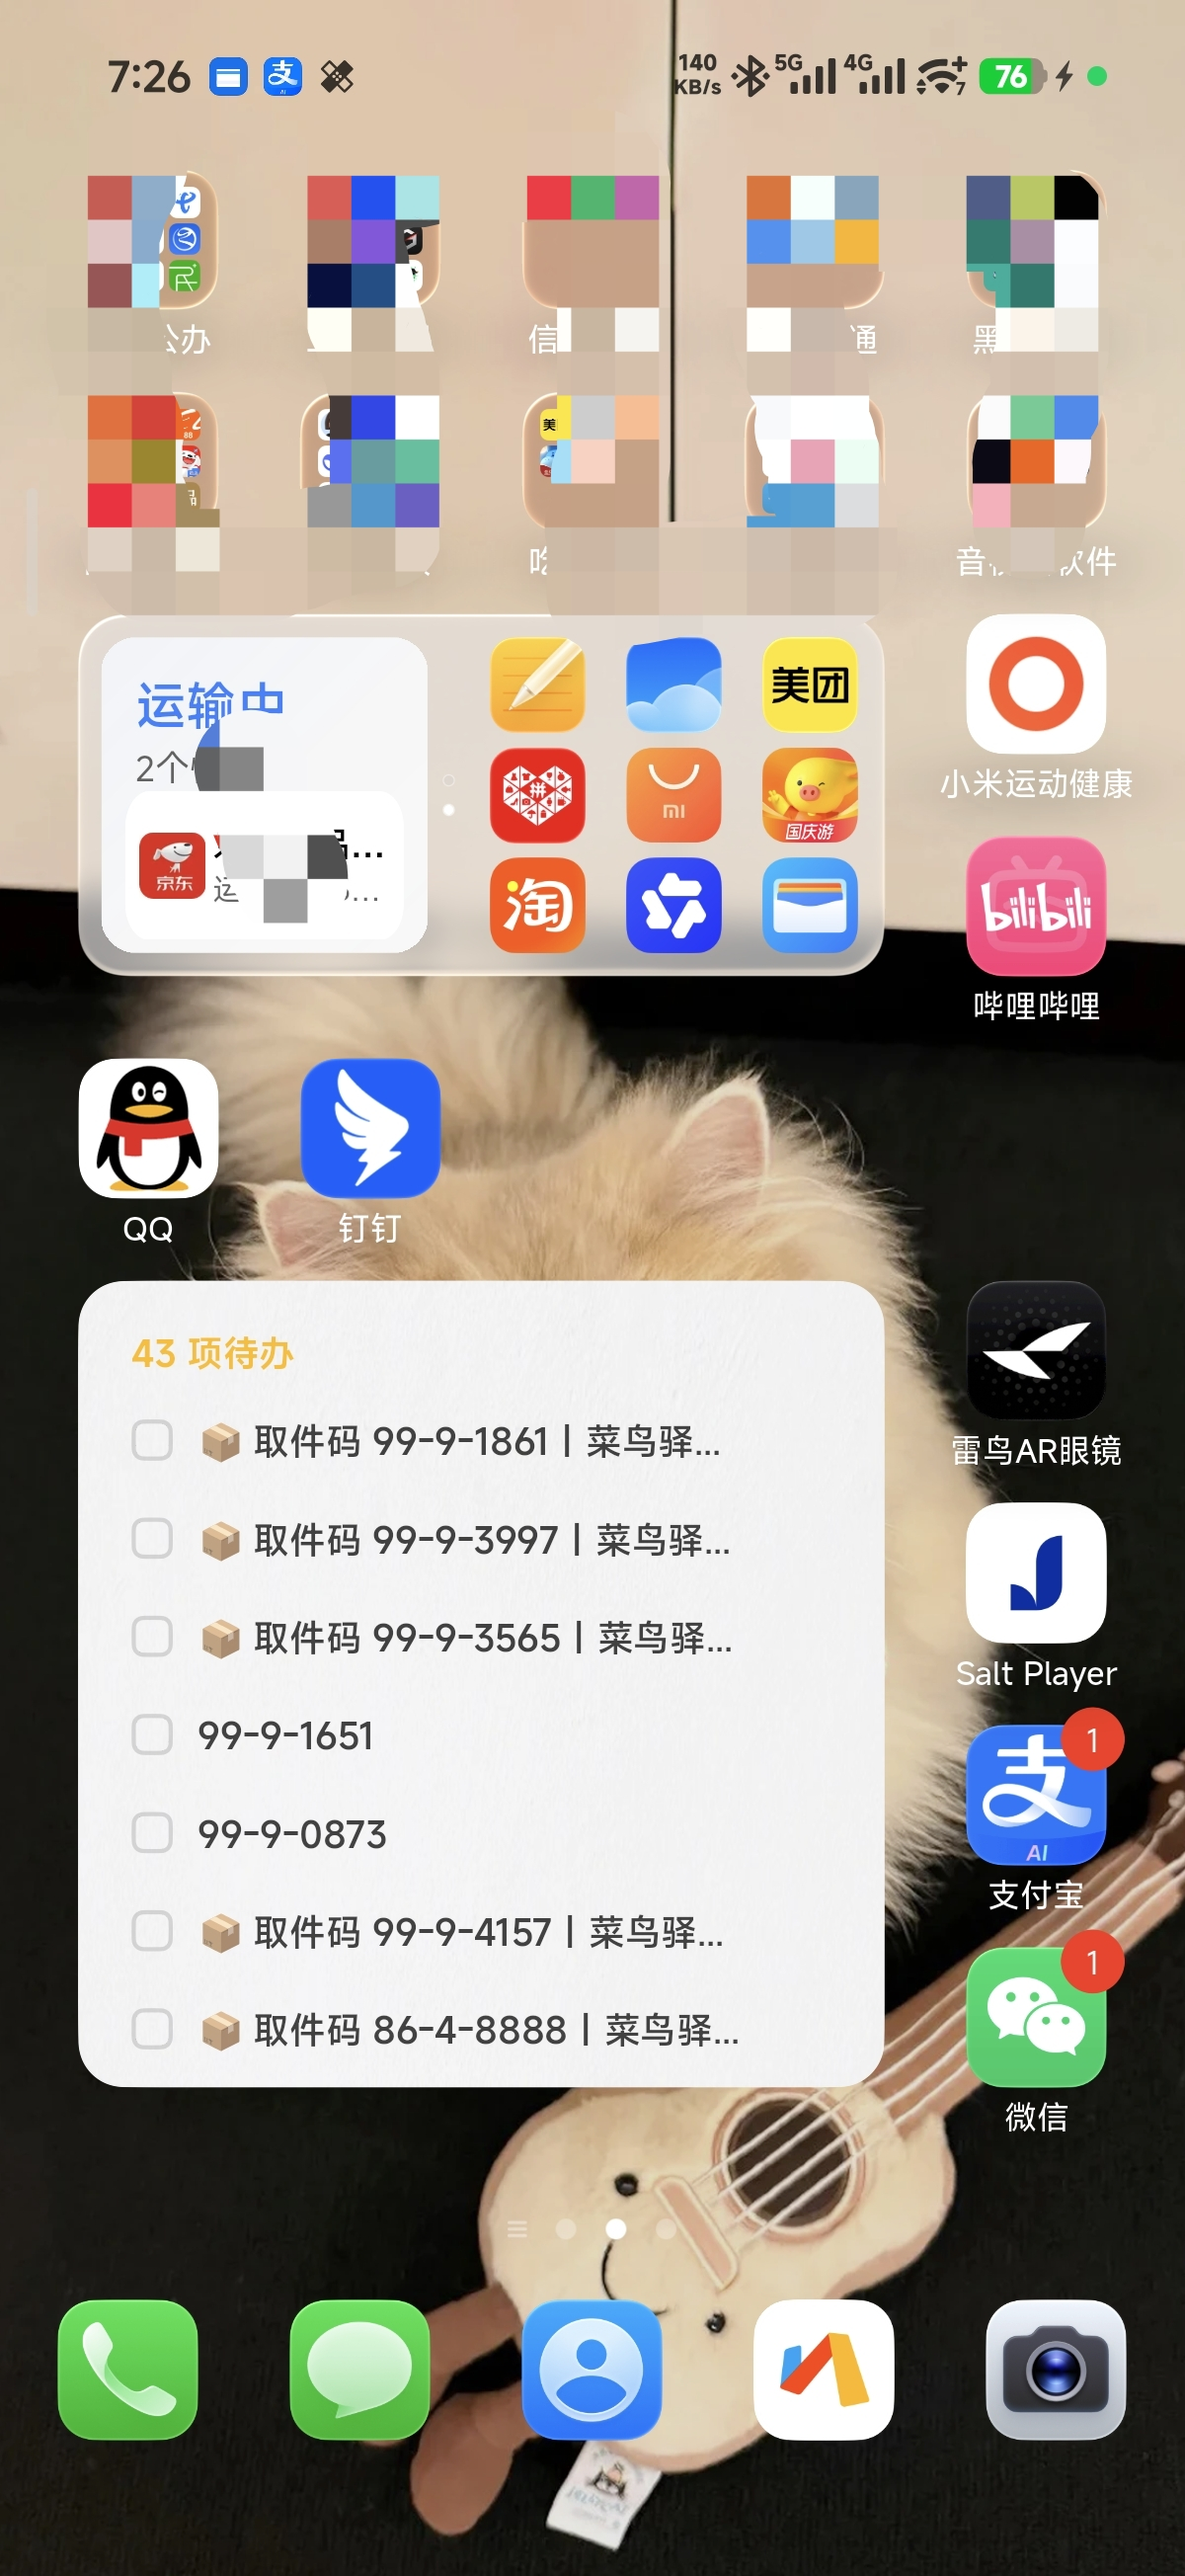
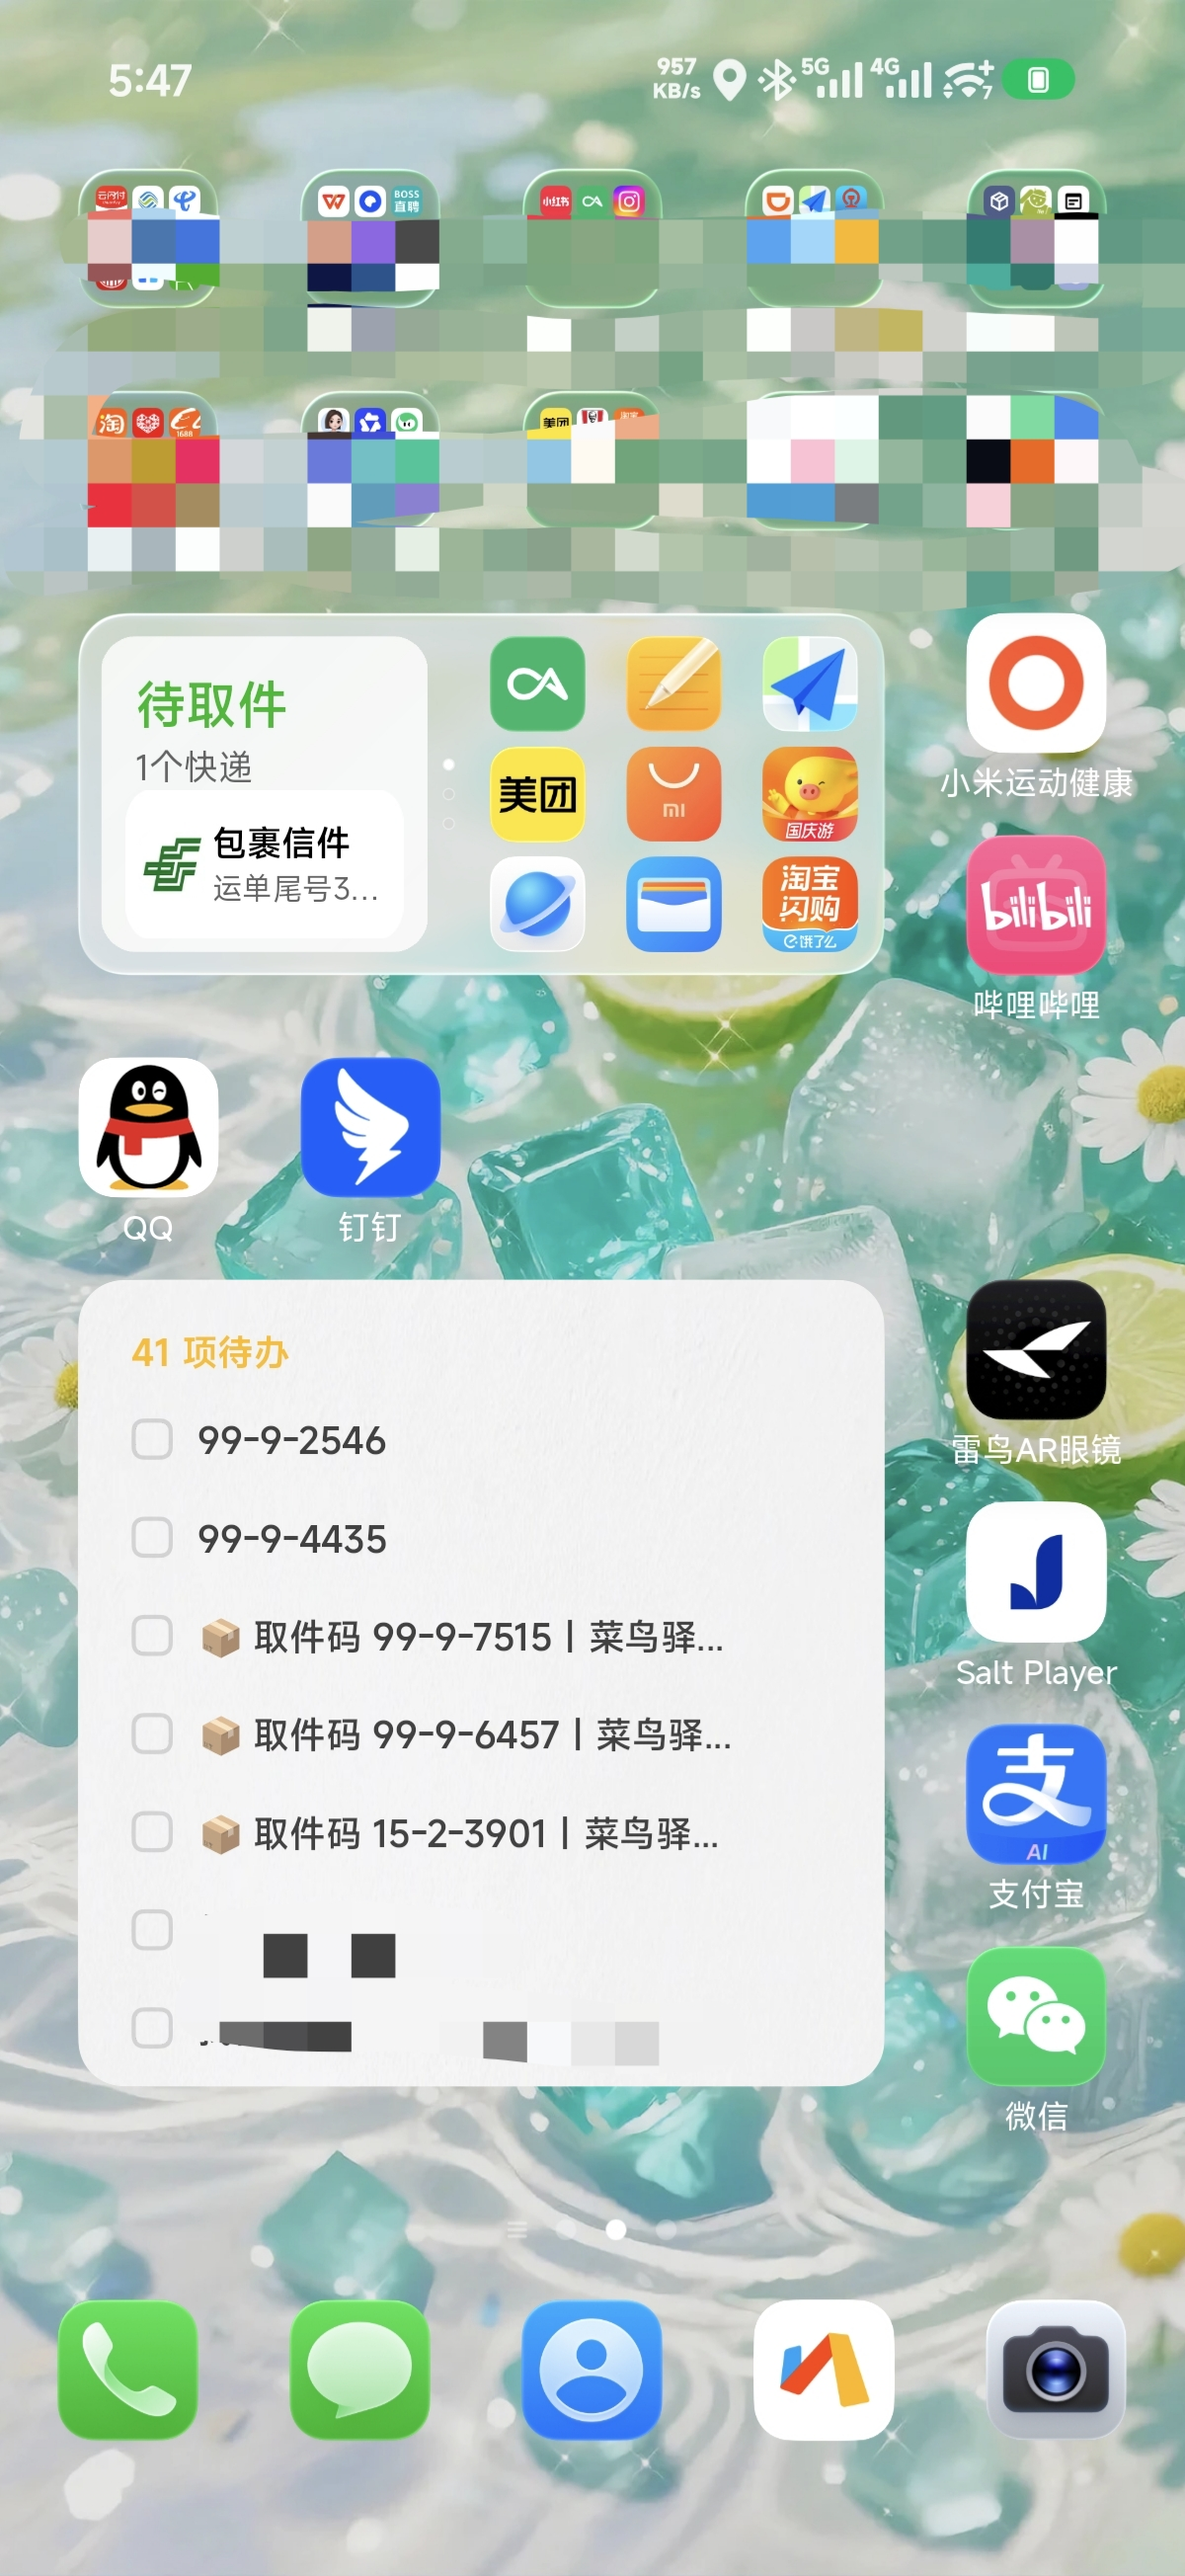
docs: 更新 README 首页 4 张实机效果截图至 v2.9.2 最新版 (老图归档为 version1-)

diff --git a/docs/screenshots/README.md b/docs/screenshots/README.md
@@ -2,13 +2,12 @@
 
 > 本目录存放 README 中引用的实机截图（已脱敏）。由 @O-kai 提供。
 
-| 文件 | 内容 | README 位置 |
-|---|---|---|
-| `settings.jpg` | 设置页（模板三档 / 一键测试 / 黑名单 / 使用说明） | 「效果截图」1 |
-| `todo-list.jpg` | 小米笔记待办列表（一码一条、新码置顶） | 「效果截图」2 |
-| `notification.jpg` | 取件通知（点击复制并打开待办） | 「效果截图」3 |
-| `home-widget.jpg` | 桌面演示（系统原生「待办」桌面组件展示取件码） | 「效果截图」4 |
+| 文件 | 内容 | 对应版本 | README 位置 |
+|---|---|---|---|
+| `settings.jpg` | 设置页主界面（多 ROM 写入目标切换 / 规则集显示 / 离线总开关 / 折叠体检卡 / 模板预览） | v2.9.2 | 「效果截图」1 |
+| `todo-list.jpg` | 系统待办列表呈现效果（一码一条、新码自动置顶、智能地点与来源解析） | v2.9.2 | 「效果截图」2 |
+| `notification.jpg` | 取件即时通知（点击复制并打开待办；支持快捷标记“已取件”） | v2.9.2 | 「效果截图」3 |
+| `home-widget.jpg` | 桌面原生小组件效果（系统原生「待办」桌面组件直接展示取件码，免开 App 一眼看码） | v2.9.2 | 「效果截图」4 |
 
+> 注：带 `version1-` 前缀的文件为历史版本旧图归档留存。
 引用方式：`![设置页](docs/screenshots/settings.jpg)`
-
-> 重新提供截图前，请先确认不含手机号 / 地址 / 个人通讯录等隐私信息。
